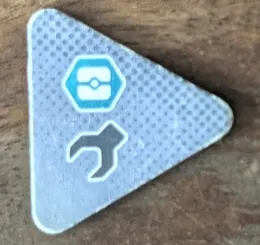
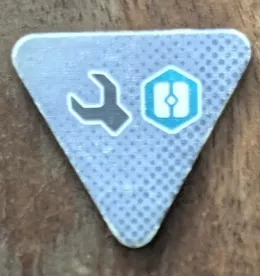
fix(starship-captains): station tiles were transcribed upside down
The triangular tiles are upright with the apex pointing down, the way the
numbered tiles' digits read. The three station crops were saved a quarter turn
off, and the Blue Station was transcribed from that: upright, its wrench is to
the LEFT of the artifact, so the repair frees a cargo slot before the artifact
is drawn into it. The Home Station's arrows read magenta, gold, black.

diff --git a/starship-captains/test/engine.test.js b/starship-captains/test/engine.test.js
@@ -1201,3 +1201,20 @@ test('"but don\'t gain tech bonuses" is the recycling icon, so it may replace a 
   assert.ok(f.noBonus, 'no edge bonuses');
   assert.ok(techSlotChoices(out.players[out.current], f).length, 'a full tech board is still a legal target');
 });
+
+test('the Blue Station repairs before it draws the artifact', () => {
+  // Upright (apex down) the wrench is left of the artifact, and effects resolve left to
+  // right - so a full hold is cleared by one before the other arrives.
+  assert.deepEqual(D.STATION_TILES.find((t) => t.id === 'blue').fx, [['repair', 1], ['artifact', 1]]);
+
+  const s = newGame();
+  const p = s.players[s.current];
+  p.cargo = p.cargo.map(() => ({ t: 'dmg' }));
+  p.cargo[0] = { t: 'pir' };
+  s.pending = [{ k: 'fx', fx: D.STATION_TILES.find((t) => t.id === 'blue').fx, i: 0 }];
+  let g = pump(s) ?? s;
+  assert.equal(ask(g).q, 'repair', 'the repair comes first');
+  g = act(g, { type: 'choose', opt: { zone: 'cargo', i: 1 } });
+  assert.equal(ask(g), null, 'the artifact lands in the slot the repair just freed');
+  assert.ok(g.players[g.current].cargo.some((c) => c?.t === 'art'), 'the artifact is aboard');
+});

diff --git a/starship-captains/js/data.js b/starship-captains/js/data.js
@@ -225,9 +225,13 @@ export const routeBetween = (a, b) =>
 export const NUMBERED_TILES = 5;
 export const STATION_TILES = [
   { id: 'gold', name: 'Gold Station', fx: ['android'] },
-  { id: 'blue', name: 'Blue Station', fx: [['artifact', 1], ['repair', 1]] },
-  // The purple tile is Home Station's: 1 step on each of the three faction tracks.
-  { id: 'home', name: 'Home Station', home: true, fx: [['tincan', 1], ['nian', 1], ['coop', 1]] },
+  // Upright (apex down, like the numbered tiles) the wrench is LEFT of the artifact, and
+  // effects resolve left to right - so the repair frees a cargo slot before the artifact
+  // is drawn into it.
+  { id: 'blue', name: 'Blue Station', fx: [['repair', 1], ['artifact', 1]] },
+  // The purple tile is Home Station's: 1 step on each of the three faction tracks. Read
+  // left to right, top row first: magenta (Cooperative), gold (Tincan), black (Ni'an).
+  { id: 'home', name: 'Home Station', home: true, fx: [['coop', 1], ['tincan', 1], ['nian', 1]] },
 ];
 // Of the 13 planets, 7 start with a tile and 6 start with a mission.
 export const SETUP_TILED_PLANETS = 7;

diff --git a/starship-captains/RULES.md b/starship-captains/RULES.md
@@ -120,6 +120,14 @@ because you cannot un-see it.
   which is the *recycling* icon (rulebook p. 11), not the blue research chip. So the tech
   may replace one already installed; the only thing given up is the edge bonuses.
 
+### Station tiles read left to right, apex down
+
+The triangular tiles are upright with the **apex pointing down** - the orientation that
+makes the numbered tiles' digits read the right way up. Held that way, the **Blue
+Station** shows the wrench to the *left* of the artifact, so the repair resolves first and
+frees a cargo slot before the artifact is drawn into it. The **Home Station**'s three
+arrows read magenta (Cooperative), gold (Tincan), then black (Ni'an).
+
 ## Excess damage and repairs
 
 Excess damage sits on top of cargo slots that are already full, so no cargo slot can be
